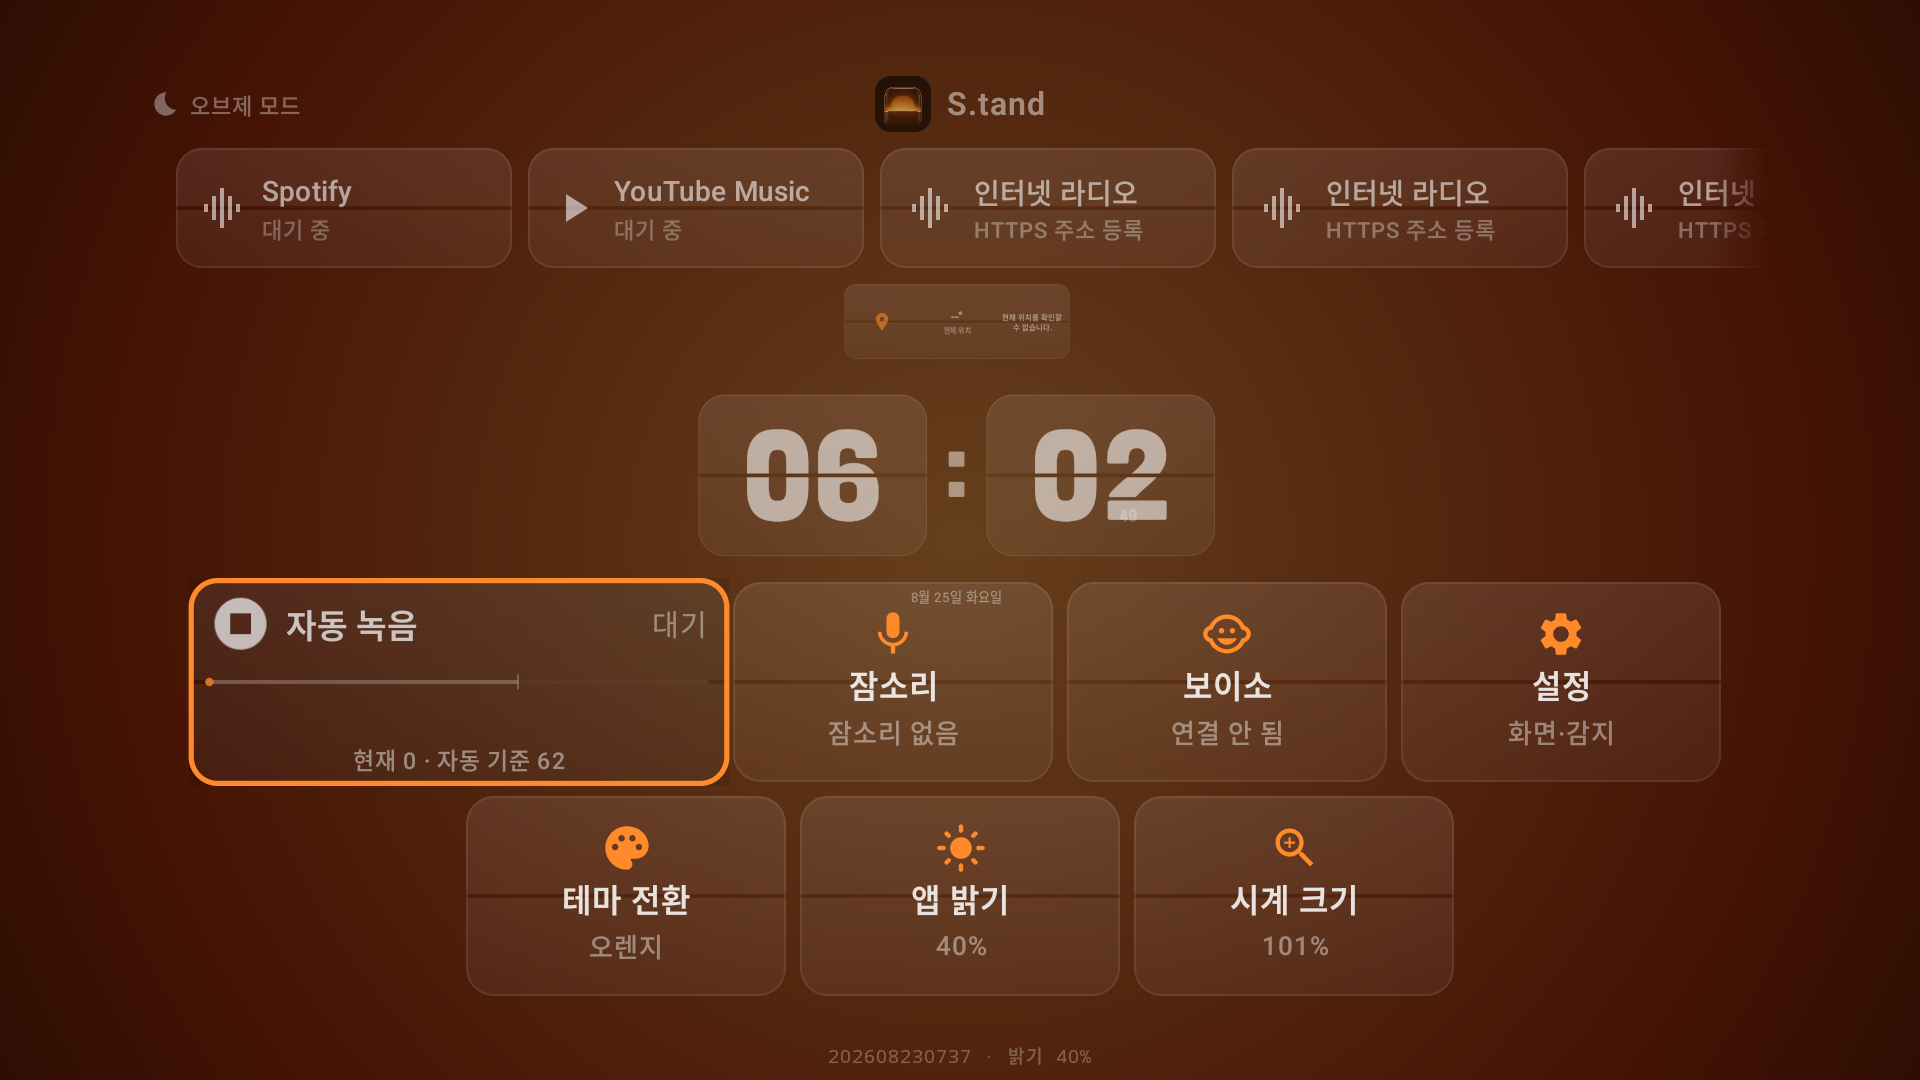
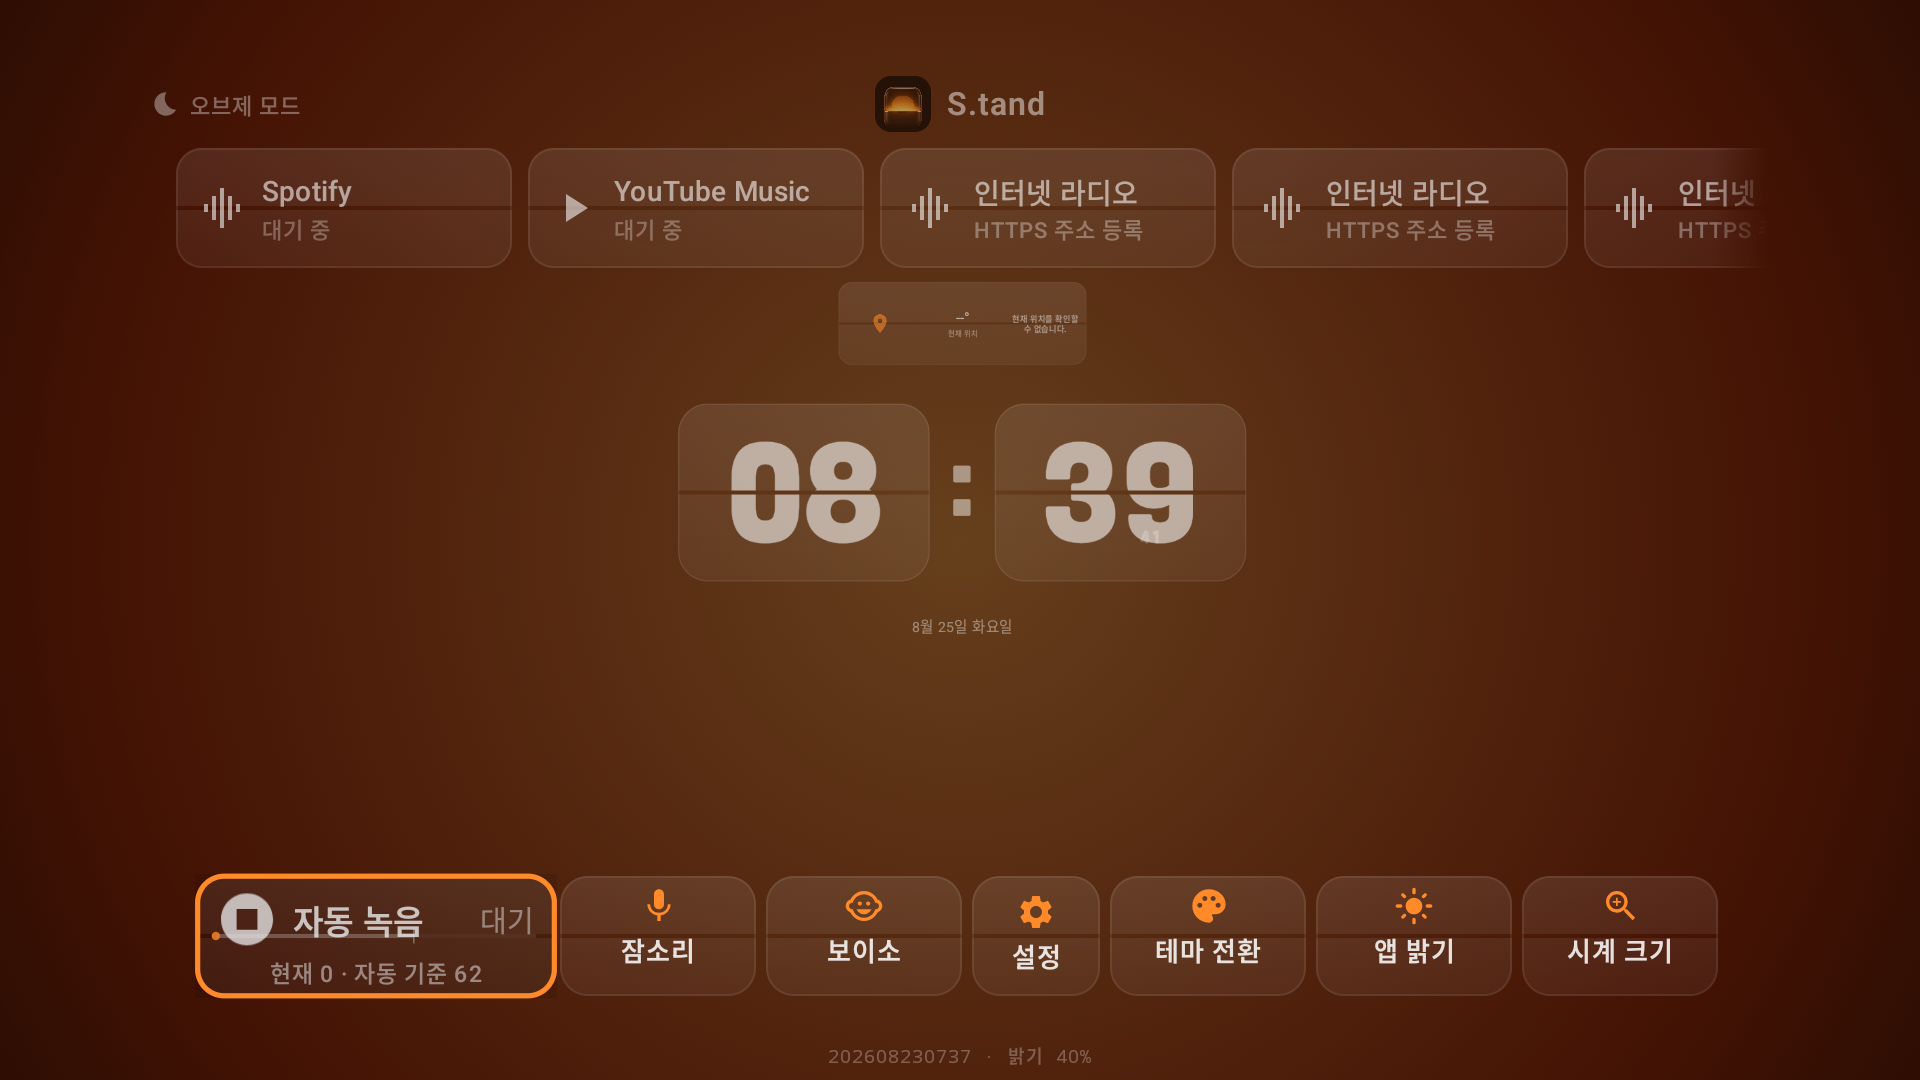
fix: present S.tand TV screens correctly

diff --git a/app/data.ts b/app/data.ts
@@ -24,7 +24,7 @@ export type AppData = {
   features: { title: string; body: string; icon?: string }[];
   guide: { title: string; body: string }[];
   progress: { state: "done" | "active" | "next"; title: string; body: string }[];
-  screenshots?: { src: string; alt: string; layout?: "phone" | "menu" | "landscape" | "wide" }[];
+  screenshots?: { src: string; alt: string; layout?: "phone" | "menu" | "landscape" | "tv" | "wide" }[];
   github: string[];
   privacy: string[];
   matchup?: {
@@ -295,8 +295,8 @@ export const apps: AppData[] = [
       { src: "/apps/stand/screens/ios-boyiso-walkie.png", alt: "볼 사람·말할 사람·무전기 역할을 고르는 S.tand iOS 보이소 연결 화면" },
       { src: "/apps/stand/screens/ios-clock-fonts.png", alt: "S.tand iOS 시계 글꼴 선택" },
       { src: "/apps/stand/screens/android-boyiso.png", alt: "S.tand Android 보이소 연결 화면" },
-      { src: "/apps/stand/screens/google-tv-home.png", alt: "리모컨 포커스가 보이는 S.tand Google TV 10-foot 홈 화면", layout: "landscape" },
-      { src: "/apps/stand/screens/android-tv-launcher.png", alt: "TV 첫 화면 즐겨찾기에 표시된 S.tand 16대9 배너", layout: "landscape" },
+      { src: "/apps/stand/screens/google-tv-home.png", alt: "리모컨 포커스가 보이는 S.tand Google TV 10-foot 홈 화면", layout: "tv" },
+      { src: "/apps/stand/screens/android-tv-launcher.png", alt: "TV 첫 화면 즐겨찾기에 표시된 S.tand 16대9 배너", layout: "tv" },
     ],
     github: ["https://github.com/armsone/S.tand", "https://github.com/armsone/S.tand-Android"],
     privacy: [

diff --git a/app/globals.css b/app/globals.css
@@ -240,6 +240,9 @@ img { display: block; max-width: 100%; }
   .app-nasfinder .nas-advantage-card h3,.app-nasfinder .nas-story-card h3{margin-top:30px}.app-nasfinder .feature-card-branded h3{margin-top:40px}
 }
 
+.screenshot-rail .screen-tv{height:auto;grid-column:1/-1}.screen-tv .screenshot-media{aspect-ratio:16/9}.screen-tv .screenshot-media img{width:100%;height:100%;object-fit:contain}
+@media (max-width:640px){.screenshot-rail .screen-tv{flex-basis:92%}}
+
 @media (prefers-reduced-motion: reduce) {
   html{scroll-behavior:auto}.reveal,.hero-orbit-art::before,.hero-orbit-ring{animation:none!important}.button,.hero-product,.phone-shot,.nas-advantage-card,.support-cards>a{transition:none!important}
 }

diff --git a/app/apps/[...path]/page.tsx b/app/apps/[...path]/page.tsx
@@ -174,6 +174,8 @@ export default async function AppRoute({ params }: RouteProps) {
                   ? { width: 700, height: 968 }
                   : screen.layout === "landscape"
                     ? { width: 2622, height: 1206 }
+                    : screen.layout === "tv"
+                      ? { width: 1920, height: 1080 }
                     : screen.layout === "wide"
                       ? { width: 860, height: 60 }
                       : { width: 1206, height: 2622 };
